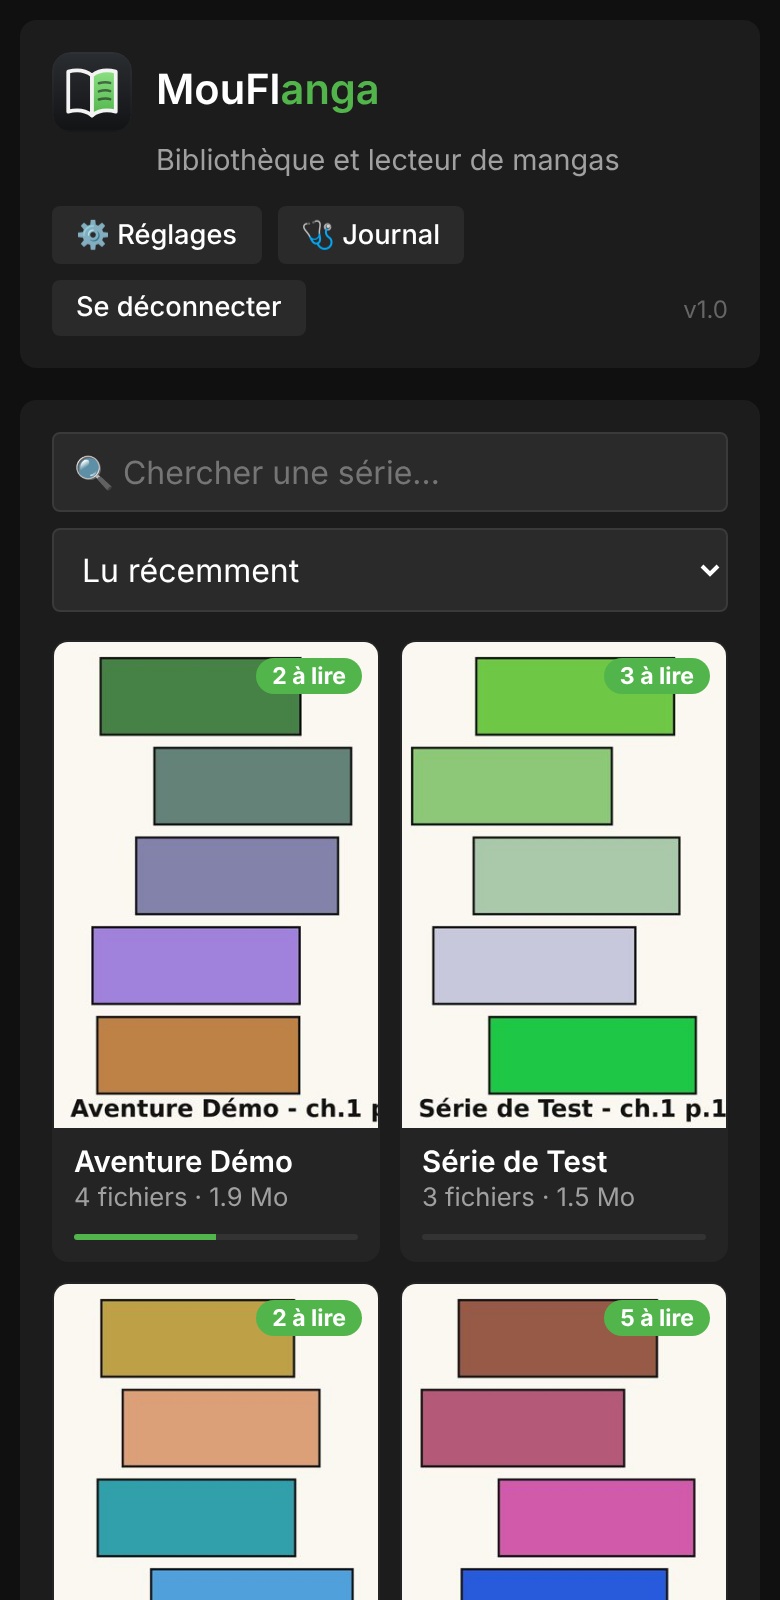
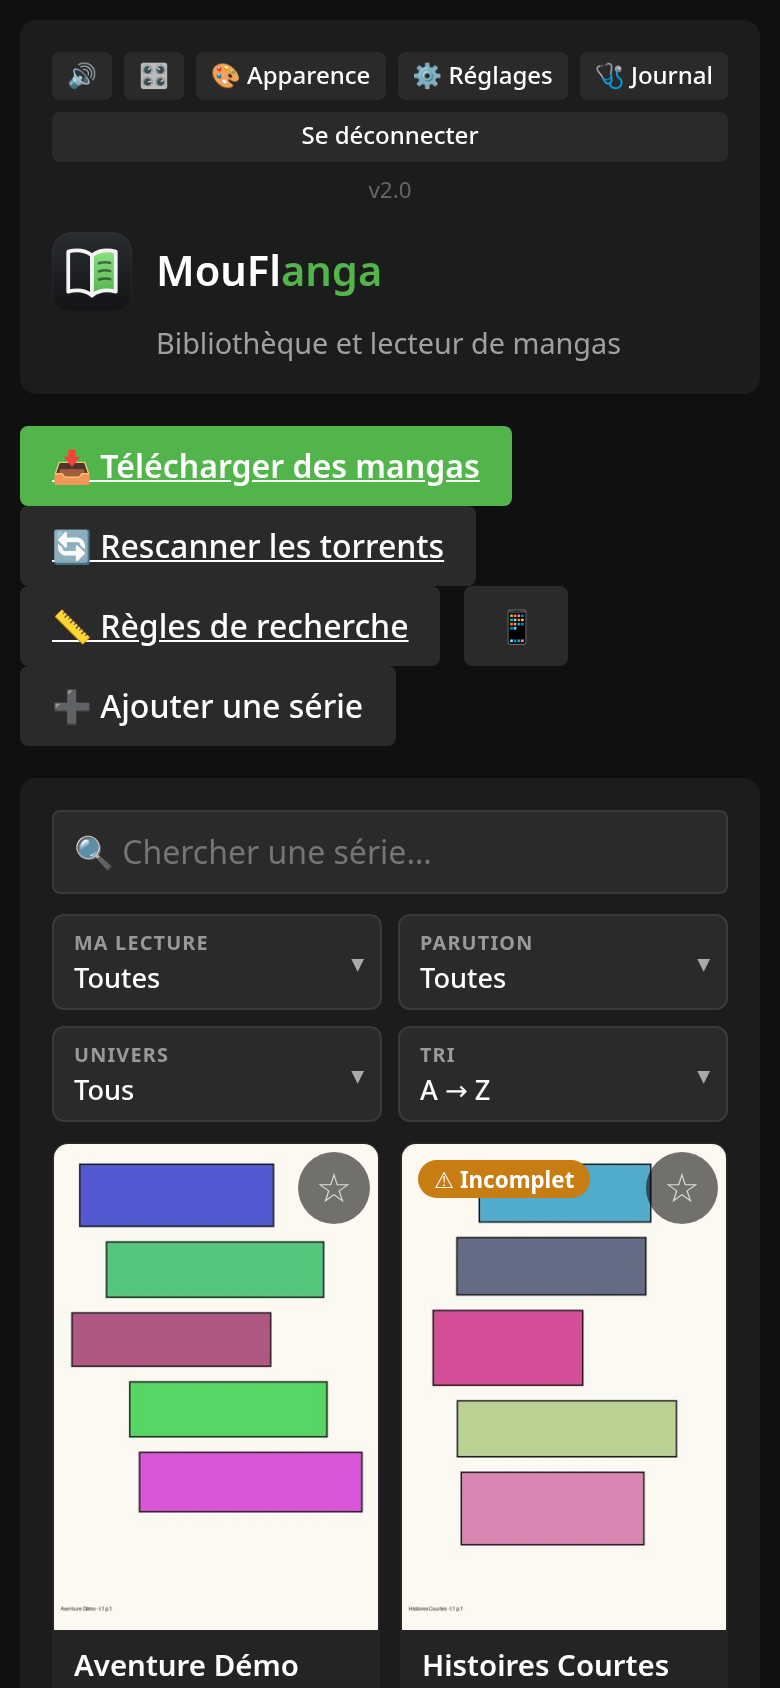
Captures d'écran refaites (+ menu Apparence et skin Papier) ; README
Claude-Session: https://claude.ai/code/session_019jd7bFnsnV7dE7F7voaq7N

diff --git a/CHANGELOG.md b/CHANGELOG.md
@@ -6,6 +6,7 @@
 - **Skins brouillons** : « 🧪 Essayer un skin brouillon » enregistre un CSS visible par son auteur seulement (`data/skins_perso/`, jamais sur GitHub), pour tester en direct avant de proposer.
 - **Secours** : `/?skin=off` affiche la page sans skin, `/apparence/reset` remet le style d'origine du compte.
 - Guide pour créer un skin et le proposer par Pull Request (sans accès au dépôt) : `docs/SKINS.md`.
+- Captures d'écran du README refaites (bibliothèque, série, lecteur, Réglages, Journal, téléphone) et deux nouvelles pour 🎨 Apparence.
 - `/api/occupe` compte maintenant une conversion .cbr → .cbz en cours : un redémarrage ne la coupe plus.
 
 ## 🔄 Les « .cbz » qui sont en réalité des RAR sont convertis aussi (14 octobre 2026)

diff --git a/README.md b/README.md
@@ -102,6 +102,10 @@ La clé ne donne accès qu'à la liste des séries et à leur couverture (`/api/
 ## 🖌 Skins et couleurs
 Chaque personne choisit son apparence dans **🎨 Apparence** : style d'origine, skins de la communauté, ou ses propres couleurs. Un skin est un simple dossier CSS dans `ui/skins/` ; le guide pour en créer un et le proposer par Pull Request est dans [`docs/SKINS.md`](docs/SKINS.md).
 
+![Le menu Apparence](docs/screenshots/apparence.png)
+
+![Le skin d'exemple « Papier »](docs/screenshots/apparence-papier.png)
+
 ## 🔐 Sécurité
 
 - L'identifiant et le mot de passe (haché) sont dans `data/secrets.env`, qui n'est **jamais** envoyé sur GitHub
